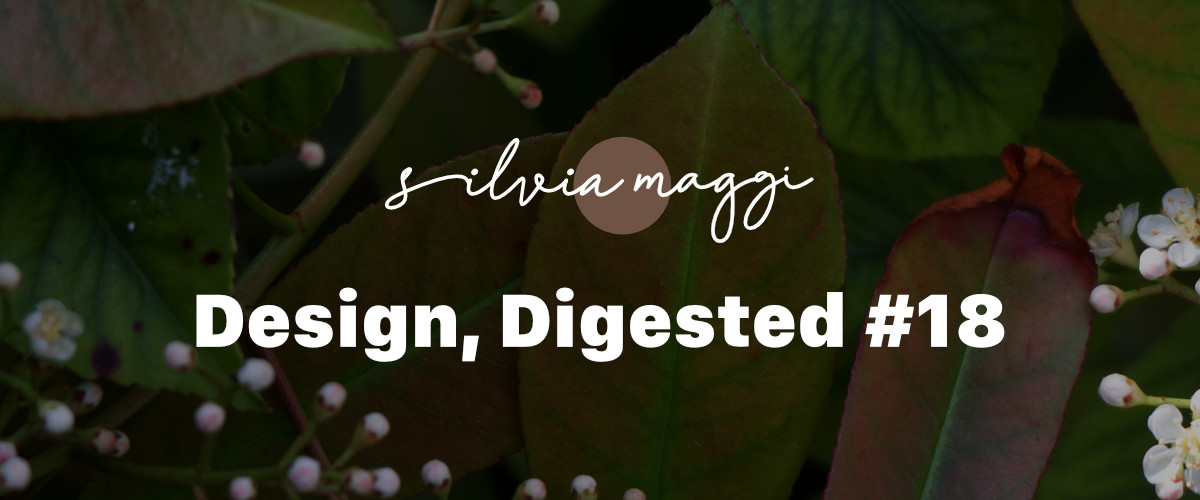
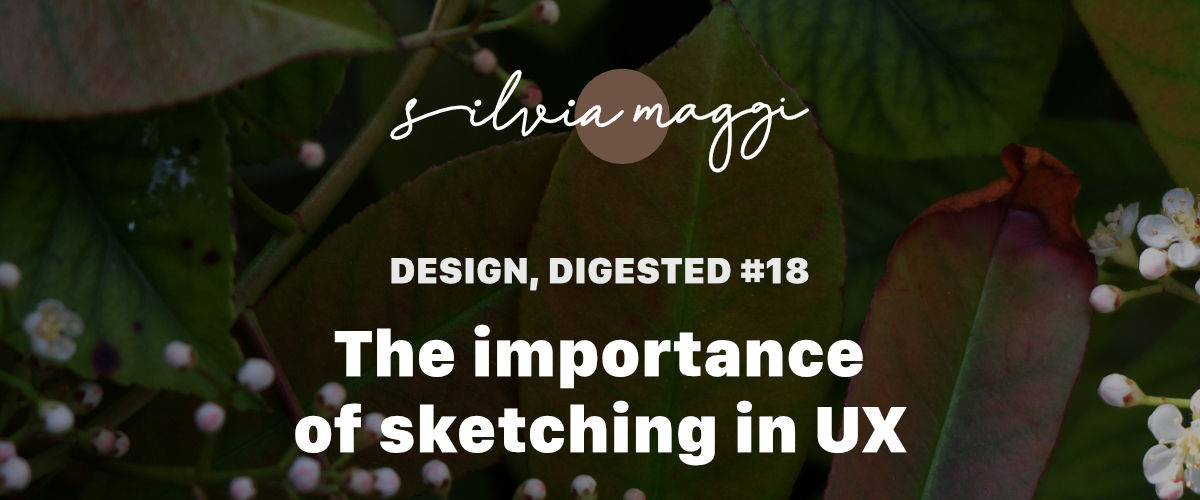
Feat image updated

Changed region(s): [[0.1542, 0.51, 0.8633, 0.78], [0.3083, 0.12, 0.6783, 0.48], [0.2467, 0.78, 0.7708, 0.93]]

diff --git a/_posts/2021-03-21-importance-of-sketching-in-ux.md b/_posts/2021-03-21-importance-of-sketching-in-ux.md
@@ -1,6 +1,6 @@
 ---
 title: "The importance of sketching in UX"
-last_modified_at: '2022-08-12 15:54:04'
+last_modified_at: '2023-03-19 19:23:26'
 featured-post: false
 popular-post: true
 categories:
@@ -17,7 +17,7 @@ tags:
 description: "Sketching is one of the most important tools a UX Designer should master. Let's explore why, how, and go beyond."
 excerpt: "I’m sure you’ve encountered many posts about which tool is best for wireframing. Yet, one of UX designers’ most important and basic tool is sketching. If you know how to convey your ideas and concepts through sketches, the rest follows."
 featuredimage: true
-featimage-alt: "Design, Digested 18 by Silvia Maggi"
+featimage-alt: ""
 featimage-class: 'u-featured'
 featimage: 'feat-design-digested-18'
 image-caption: false
